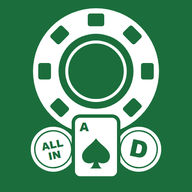
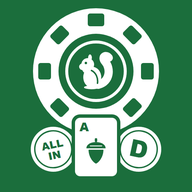
アイコンをシマリスとどんぐりの絵柄に替えた
チップの中央にシマリス、カードをどんぐりの A にした。

Changed region(s): [[0.4062, 0.25, 0.5938, 0.4688], [0.4062, 0.7188, 0.5938, 0.9062]]

diff --git a/docs/icon/README.md b/docs/icon/README.md
@@ -1,5 +1,7 @@
 # アイコンの元データ
 
+絵柄: 大きなチップの中央にシマリス（名前の CHIPmunk = CHIP + シマリス）、手前にオールインボタン・どんぐりの A（どんぐりはドイツのトランプのマーク）・ディーラーボタン。
+
 - `icon.svg`: 通常のアイコン。`wwwroot/icon-512.png`・`icon-192.png`・`favicon.png`（32px）の元。
 - `icon-maskable.svg`: Android のホーム画面で丸く切り抜かれても欠けないよう、全体を 86% に縮めた版。`wwwroot/icon-maskable-512.png`・`icon-maskable-192.png` の元。
 - 色はアプリのテーマと同じ緑（#1b6e3c）と白の 2 色。
